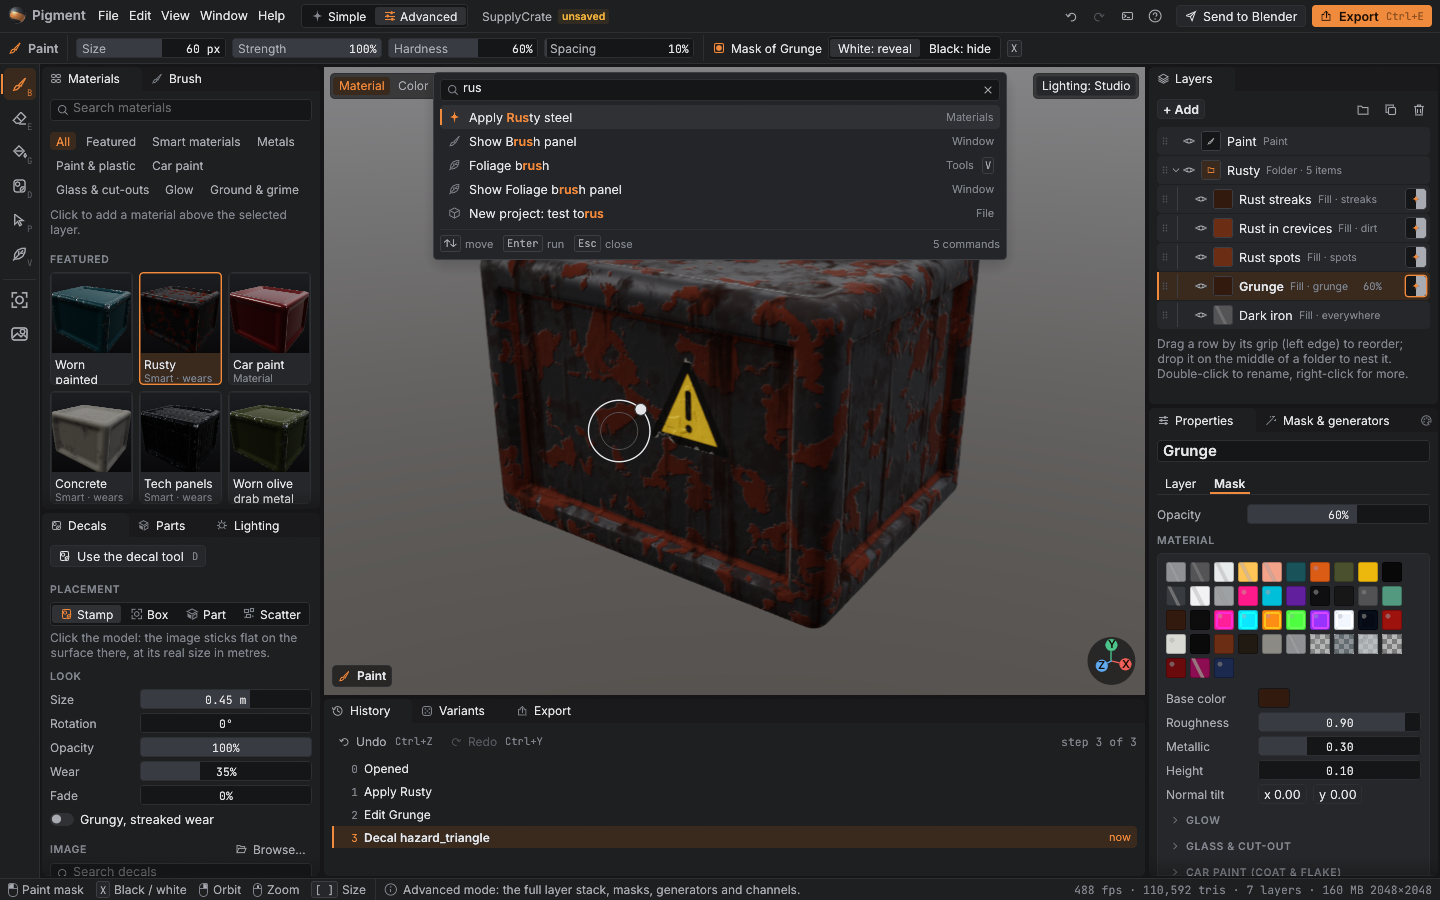
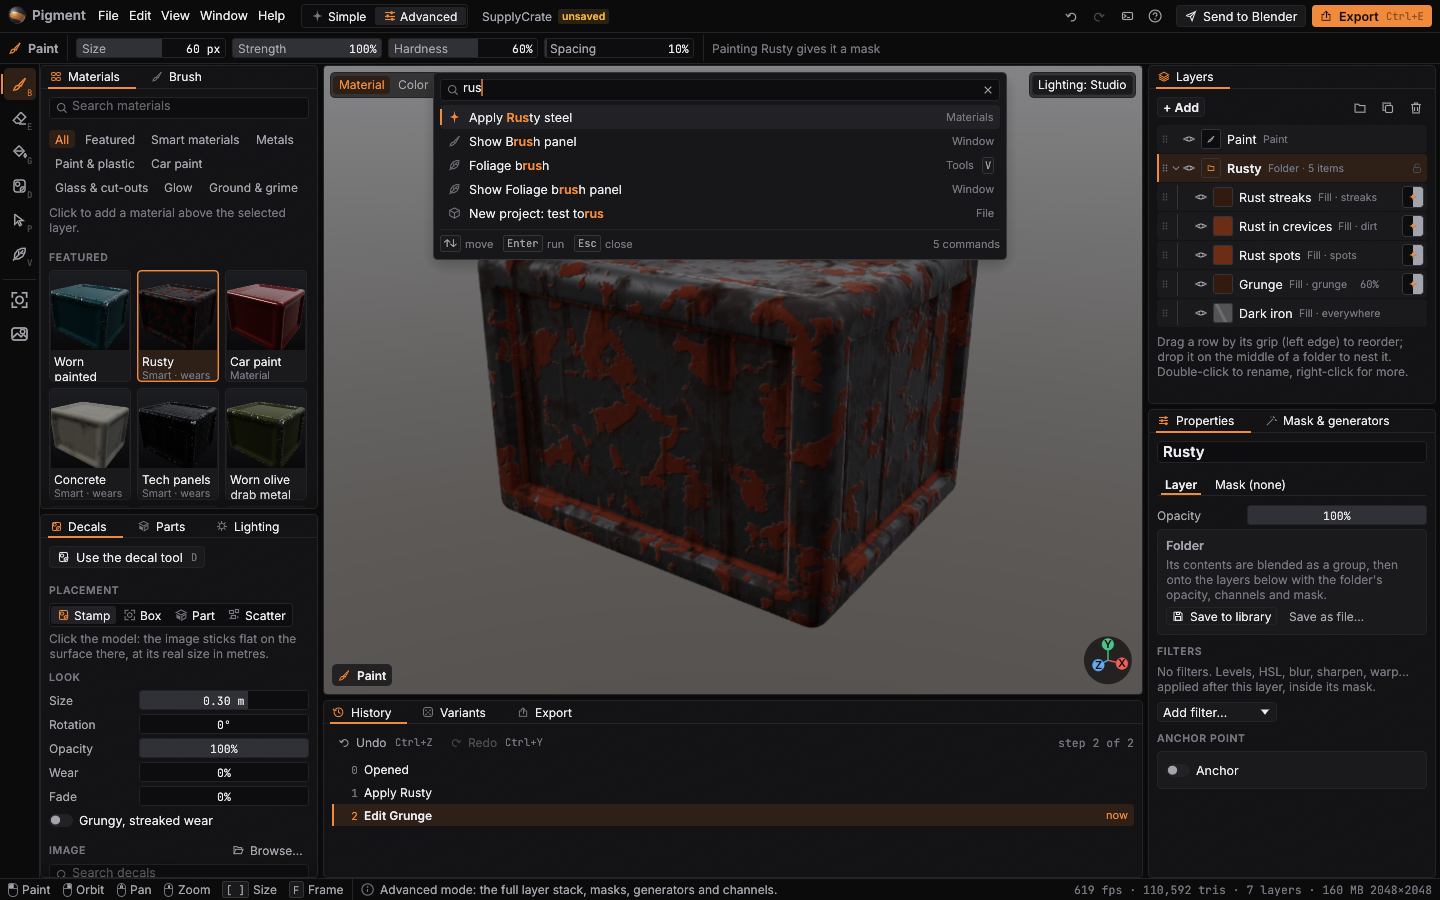
Overhaul UI
Panels are bordered cards on a near-black canvas with gutters between them, tabs marked by an underline, bars and tool rail on the canvas, the logo shown once (top bar), segmented controls stay on one row, and the Car sample gets its preview image.

diff --git a/crates/app/src/app/dock.rs b/crates/app/src/app/dock.rs
@@ -550,12 +550,16 @@ pub fn show(ui: &mut Ui, layout: &mut DockLayout, mut panel: impl FnMut(&mut Ui,
         let active = active.min(tabs.len() - 1);
         let only_viewport = tabs.len() == 1 && tabs[0] == PanelId::Viewport;
         let lrect = lrect.shrink(0.5);
-        let content = if only_viewport { lrect } else { Rect::from_min_max(pos2(lrect.left(), lrect.top() + m.tab_h), lrect.max) };
+        // every leaf is a card on the canvas: graphite fill, hairline edge
+        let t_active = tabs[active];
+        ui.painter().rect_filled(lrect, CornerRadius::same(radius::LG), if only_viewport || t_active == PanelId::Viewport { p.bg } else { p.surface });
+        let content = if only_viewport { lrect.shrink(1.0) } else { Rect::from_min_max(pos2(lrect.left() + 1.0, lrect.top() + m.tab_h), pos2(lrect.right() - 1.0, lrect.bottom() - 1.0)) };
         if !only_viewport {
-            // the tab strip sits on the darker background; the active tab joins the panel below
+            // the tab strip is part of the card: quiet labels, the active tab underlined in the accent
             let bar = Rect::from_min_max(lrect.min, pos2(lrect.right(), lrect.top() + m.tab_h));
-            ui.painter().rect_filled(bar, CornerRadius { nw: radius::LG, ne: radius::LG, sw: 0, se: 0 }, p.bg.lerp_to_gamma(p.surface, 0.45));
-            let mut x = bar.left();
+            ui.painter().rect_filled(bar, CornerRadius { nw: radius::LG, ne: radius::LG, sw: 0, se: 0 }, p.surface);
+            ui.painter().hline(bar.x_range(), bar.bottom() - 0.5, Stroke::new(1.0, p.border));
+            let mut x = bar.left() + space::XXS;
             let isz = icon::SM - 1.0;
             for (k, t) in tabs.iter().enumerate() {
                 let on = k == active;
@@ -568,11 +572,15 @@ pub fn show(ui: &mut Ui, layout: &mut DockLayout, mut panel: impl FnMut(&mut Ui,
                 let tr = Rect::from_min_size(pos2(x, bar.top()), vec2(w, m.tab_h));
                 let id = ui.scope_id().with(("dock tab", *t));
                 let r = ui.interact(tr, id, Sense::click_and_drag());
-                let bg = if on { p.surface } else if r.hovered() { p.surface_raised } else { egui::Color32::TRANSPARENT };
-                ui.painter().rect_filled(tr, CornerRadius { nw: radius::LG, ne: radius::LG, sw: 0, se: 0 }, bg);
+                if r.hovered() && !on {
+                    ui.painter().rect_filled(tr.shrink2(vec2(0.0, space::XXS)), CornerRadius::same(radius::MD), p.surface_raised);
+                }
+                if on {
+                    ui.painter().hline(tr.shrink2(vec2(space::SM, 0.0)).x_range(), tr.bottom() - 1.0, Stroke::new(2.0, p.accent));
+                }
                 let fg = if on { p.text } else if r.hovered() { p.text_secondary } else { p.text_muted };
                 let painter = ui.painter().with_clip_rect(tr);
-                t.icon().paint(&painter, Rect::from_min_size(pos2(tr.left() + space::MD, tr.center().y - isz / 2.0), vec2(isz, isz)), if on { p.text_secondary } else { fg });
+                t.icon().paint(&painter, Rect::from_min_size(pos2(tr.left() + space::MD, tr.center().y - isz / 2.0), vec2(isz, isz)), if on { p.accent } else { fg });
                 painter.galley(pos2(tr.left() + space::MD + isz + space::SM, tr.center().y - g.size().y / 2.0), g, fg);
                 if t.closable() && r.hovered() {
                     let cr = Rect::from_center_size(pos2(tr.right() - space::SM - isz / 2.0 + 2.0, tr.center().y), vec2(isz - 3.0, isz - 3.0));
@@ -610,8 +618,7 @@ pub fn show(ui: &mut Ui, layout: &mut DockLayout, mut panel: impl FnMut(&mut Ui,
                 x += w + 1.0;
             }
         }
-        let t = tabs[active];
-        ui.painter().rect_filled(content, CornerRadius { nw: 0, ne: 0, sw: radius::LG, se: radius::LG }, if t == PanelId::Viewport { p.bg } else { p.surface });
+        let t = t_active;
         let mut child = ui.new_child(egui::UiBuilder::new().max_rect(content).id_salt(("dock panel", t)).layout(egui::Layout::top_down(egui::Align::Min)));
         child.set_clip_rect(content.intersect(ui.clip_rect()));
         if t == PanelId::Viewport {
@@ -625,6 +632,7 @@ pub fn show(ui: &mut Ui, layout: &mut DockLayout, mut panel: impl FnMut(&mut Ui,
             });
         }
         out.rects.push((t, content));
+        ui.painter().rect_stroke(lrect, CornerRadius::same(radius::LG), Stroke::new(1.0, p.border), StrokeKind::Inside);
 
         // drop target highlight
         if let (Some(d), Some(pos)) = (dragging, pointer) {

diff --git a/crates/app/src/app/design/mod.rs b/crates/app/src/app/design/mod.rs
@@ -74,34 +74,36 @@ const fn rgb(r: u8, g: u8, b: u8) -> Color32 {
 }
 
 impl Palette {
+    /// Carbon: graphite panels floating on a near-black canvas, separated by
+    /// hairlines and gutters rather than by fill steps.
     pub const DARK: Palette = Palette {
-        bg: rgb(22, 22, 24),
-        surface: rgb(30, 31, 33),
-        surface_raised: rgb(38, 39, 42),
-        surface_hover: rgb(48, 49, 53),
-        well: rgb(21, 22, 24),
-        field_fill: rgb(56, 59, 66),
-        overlay: rgb(36, 37, 40),
-        glass: Color32::from_rgba_premultiplied(16, 16, 18, 214),
-        border: rgb(46, 47, 50),
-        border_strong: rgb(60, 62, 67),
-        text: rgb(228, 229, 232),
-        text_secondary: rgb(168, 171, 177),
-        text_muted: rgb(128, 132, 140),
-        text_disabled: rgb(84, 87, 93),
+        bg: rgb(11, 11, 12),
+        surface: rgb(19, 19, 21),
+        surface_raised: rgb(26, 26, 29),
+        surface_hover: rgb(34, 34, 38),
+        well: rgb(13, 13, 15),
+        field_fill: rgb(48, 49, 54),
+        overlay: rgb(23, 23, 26),
+        glass: Color32::from_rgba_premultiplied(10, 10, 11, 220),
+        border: rgb(36, 36, 40),
+        border_strong: rgb(52, 52, 58),
+        text: rgb(236, 236, 239),
+        text_secondary: rgb(164, 164, 172),
+        text_muted: rgb(118, 118, 128),
+        text_disabled: rgb(76, 76, 84),
         accent: rgb(240, 138, 60),
         accent_hover: rgb(255, 160, 88),
         accent_pressed: rgb(214, 116, 42),
-        accent_subtle: rgb(58, 42, 30),
+        accent_subtle: rgb(46, 32, 22),
         on_accent: rgb(26, 16, 6),
         success: rgb(76, 195, 138),
         warn: rgb(242, 179, 61),
         danger: rgb(240, 96, 90),
         info: rgb(96, 170, 240),
         focus: rgb(125, 183, 255),
-        selection: rgb(84, 58, 36),
-        scrim: Color32::from_rgba_premultiplied(0, 0, 0, 140),
-        shadow: Color32::from_rgba_premultiplied(0, 0, 0, 90),
+        selection: rgb(78, 52, 32),
+        scrim: Color32::from_rgba_premultiplied(0, 0, 0, 160),
+        shadow: Color32::from_rgba_premultiplied(0, 0, 0, 110),
     };
 
     pub const LIGHT: Palette = Palette {
@@ -209,7 +211,8 @@ pub mod size {
     pub const TILE: f32 = 80.0;
     pub const TAB_H: f32 = 24.0;
     pub const STATUS_H: f32 = 22.0;
-    pub const SPLITTER: f32 = 3.0;
+    /// Gutter between docked panels (the canvas shows through).
+    pub const SPLITTER: f32 = 4.0;
     pub const SLIDER_W: f32 = 120.0;
     /// Label column of property rows.
     pub const LABEL_W: f32 = 84.0;
@@ -450,12 +453,12 @@ pub fn panel_frame(p: &Palette) -> egui::Frame {
 
 /// The top bar and the status bar: flat surface, tight padding.
 pub fn bar_frame(p: &Palette) -> egui::Frame {
-    egui::Frame::new().fill(p.surface).inner_margin(Margin::symmetric(space::MD as i8, space::XS as i8)).stroke(Stroke::new(1.0, p.border))
+    egui::Frame::new().fill(p.bg).inner_margin(Margin::symmetric(space::MD as i8, space::XS as i8)).stroke(Stroke::new(1.0, p.border))
 }
 
 /// The tool options bar under the top bar.
 pub fn toolbar_frame(p: &Palette) -> egui::Frame {
-    egui::Frame::new().fill(p.surface).inner_margin(Margin::symmetric(space::MD as i8, space::XXS as i8))
+    egui::Frame::new().fill(p.bg).inner_margin(Margin::symmetric(space::MD as i8, space::XXS as i8))
 }
 
 /// Untinted image drawing (not a colour role).

diff --git a/crates/app/src/app/design/components.rs b/crates/app/src/app/design/components.rs
@@ -624,17 +624,33 @@ pub fn segmented<T: PartialEq + Copy>(ui: &mut Ui, value: &mut T, options: &[(T,
     let frame = egui::Frame::new().fill(p.well).corner_radius(cr(radius::MD)).inner_margin(egui::Margin::same(1)).stroke(Stroke::new(1.0, p.border));
     frame.show(ui, |ui| {
         ui.spacing_mut().item_spacing = vec2(1.0, 1.0);
+        // stay on one row when it can: tighten the padding, then drop the icons, before wrapping
+        let avail = ui.available_width() - 2.0;
+        let text_w: Vec<f32> = options.iter().map(|(_, _, l)| ui.painter().layout_no_wrap(l.to_string(), fonts::regular(font::SMALL), p.text).size().x).collect();
+        let total = |pad: f32, icons: bool| -> f32 {
+            options.iter().zip(&text_w).map(|((_, ic, l), tw)| if l.is_empty() { m.control_h_sm + space::XS } else { tw + pad * 2.0 + if icons { ic.map_or(0.0, |_| icon::SM + space::XS) } else { 0.0 } } + 1.0).sum()
+        };
+        let (pad, icons) = if total(space::MD, true) <= avail {
+            (space::MD, true)
+        } else if total(space::SM, true) <= avail {
+            (space::SM, true)
+        } else if total(space::XS, true) <= avail {
+            (space::XS, true)
+        } else {
+            (space::SM, false)
+        };
         ui.horizontal_wrapped(|ui| {
             for (v, ic, label) in options {
+                let ic = if icons || label.is_empty() { *ic } else { None };
                 let on = *value == *v;
                 let g = ui.painter().layout_no_wrap(label.to_string(), fonts::regular(font::SMALL), p.text);
-                let w = g.size().x + space::MD * 2.0 + ic.map_or(0.0, |_| icon::SM + space::XS);
+                let w = g.size().x + pad * 2.0 + ic.map_or(0.0, |_| icon::SM + space::XS);
                 let w = if label.is_empty() { m.control_h_sm + space::XS } else { w };
                 let (rect, resp) = ui.allocate_exact_size(vec2(w, m.control_h_sm), Sense::click());
                 let bg = if on { p.surface_hover } else if resp.hovered() { p.surface_raised } else { Color32::TRANSPARENT };
                 ui.painter().rect_filled(rect, cr(radius::SM), bg);
                 let fg = if on { p.text } else if resp.hovered() { p.text_secondary } else { p.text_muted };
-                let mut x = rect.center().x - (w - space::MD * 2.0) / 2.0;
+                let mut x = rect.center().x - (w - pad * 2.0) / 2.0;
                 if label.is_empty() {
                     x = rect.center().x - icon::SM / 2.0;
                 }

diff --git a/crates/app/src/app/ui.rs b/crates/app/src/app/ui.rs
@@ -207,8 +207,8 @@ impl eframe::App for PigmentApp {
         } else {
             egui::Panel::top("tool options").frame(ds::toolbar_frame(&p)).show(ui, |ui| self.tool_options(ui, &rs));
             let rail = if m.tool_labels { (m.tool + space::LG * 2.0, space::SM) } else { (m.tool + space::MD, space::XS) };
-            egui::Panel::left("tool rail").exact_size(rail.0).resizable(false).frame(egui::Frame::new().fill(p.surface).inner_margin(egui::Margin::same(rail.1 as i8))).show(ui, |ui| self.tool_rail(ui));
-            egui::CentralPanel::default().frame(egui::Frame::new().fill(p.bg).inner_margin(egui::Margin::same(space::XXS as i8))).show(ui, |ui| {
+            egui::Panel::left("tool rail").exact_size(rail.0).resizable(false).frame(egui::Frame::new().fill(p.bg).inner_margin(egui::Margin::same(rail.1 as i8))).show(ui, |ui| self.tool_rail(ui));
+            egui::CentralPanel::default().frame(egui::Frame::new().fill(p.bg).inner_margin(egui::Margin { left: 0, right: space::XS as i8, top: 0, bottom: 0 })).show(ui, |ui| {
                 let mut layout = std::mem::take(self.ui.prefs.layout_mut());
                 let before = layout.clone();
                 let mut panels = self.ui.panels.take().unwrap_or_default();

diff --git a/crates/app/src/app/welcome.rs b/crates/app/src/app/welcome.rs
@@ -121,13 +121,9 @@ impl PigmentApp {
         ui.scope_builder(egui::UiBuilder::new().max_rect(rect), |ui| {
             egui::ScrollArea::vertical().show(ui, |ui| {
                 ui.add_space(space::XXL);
-                ui.horizontal(|ui| {
-                    ds::logo(ui, icon::XL);
-                    ui.vertical(|ui| {
-                        ui.label(ds::strong("Paint your 3D models", font::DISPLAY));
-                        ui.label(ds::text("Pick a model, pick a material, export. Edge wear and dirt appear where they belong.", font::TITLE).color(p.text_secondary));
-                    });
-                });
+                // the mark lives in the top bar only; the welcome screen leads with words
+                ui.label(ds::strong("Paint your 3D models", font::DISPLAY));
+                ui.label(ds::text("Pick a model, pick a material, export. Edge wear and dirt appear where they belong.", font::TITLE).color(p.text_secondary));
                 ui.add_space(space::XXL);
                 if let Some((_, name)) = self.recovery() {
                     ds::card(ui, |ui| {

diff --git a/docs/design/DESIGN_SYSTEM.md b/docs/design/DESIGN_SYSTEM.md
@@ -42,24 +42,32 @@ See it live: `pigment --design-gallery`. Every screen offscreen:
    commands persist in `prefs.json`. Bakes, exports and autosaves run without freezing
    the window and report through toasts (hover a toast to keep it).
 
+## Layout: cards on a carbon canvas
+
+The window is a near-black canvas (`bg`). The top bar, tool options bar, tool rail and status bar sit
+directly on it. Every docked panel is a graphite card (`surface`) with a 1 px `border` hairline and
+`radius::LG` corners, separated from its neighbours by a 4 px gutter (`size::SPLITTER`) that doubles as
+the resize handle. A card's tab strip belongs to the card: quiet labels, the active tab marked by a
+2 px accent underline and an accent icon. The logo appears once, in the top bar.
+
 ## Tokens
 
 ### Colour roles (`design::Palette`)
 
 | Role | Dark | Light | Use |
 |---|---|---|---|
-| `bg` | #161618 | #D6D8DC | behind everything, viewport surround, tab strips |
-| `surface` | #1E1F21 | #ECEDF0 | panels, bars, the active tab |
-| `surface_raised` | #26272A | #F7F8FA | rows, cards, hovered tabs |
-| `surface_hover` | #303135 | #E0E2E6 | hovered rows and buttons |
-| `well` | #151618 | #FAFAFB | text fields, drag fields, tracks |
+| `bg` | #0B0B0C | #D6D8DC | behind everything, viewport surround, tab strips |
+| `surface` | #131315 | #ECEDF0 | panels, bars, the active tab |
+| `surface_raised` | #1A1A1D | #F7F8FA | rows, cards, hovered tabs |
+| `surface_hover` | #222226 | #E0E2E6 | hovered rows and buttons |
+| `well` | #0D0D0F | #FAFAFB | text fields, drag fields, tracks |
 | `field_fill` | #383B42 | #CCD2DC | the value part of a drag field (neutral, never the accent) |
-| `overlay` | #242528 | #FAFAFB | menus, toasts, dialogs, palette |
+| `overlay` | #17171A | #FAFAFB | menus, toasts, dialogs, palette |
 | `glass` | near-black 84% | white 84% | viewport HUD chips |
-| `border` / `border_strong` | #2E2F32 / #3C3E43 | #D0D3D8 / #B0B5BD | hairlines / hover and emphasis |
-| `text` | #E4E5E8 | #16181C | primary text (>= 7:1 on every surface) |
-| `text_secondary` | #A8ABB1 | #3E434B | labels (>= 4.5:1) |
-| `text_muted` | #80848C | #606771 | hints, captions (>= 3:1) |
+| `border` / `border_strong` | #242428 / #34343A | #D0D3D8 / #B0B5BD | hairlines / hover and emphasis |
+| `text` | #ECECEF | #16181C | primary text (>= 7:1 on every surface) |
+| `text_secondary` | #A4A4AC | #3E434B | labels (>= 4.5:1) |
+| `text_muted` | #767680 | #606771 | hints, captions (>= 3:1) |
 | `text_disabled` | #54575D | #A0A6AF | disabled |
 | `accent` / `hover` / `pressed` | #F08A3C / #FFA058 / #D6742A | #D26216 / #E67222 / #B85410 | selection, active tool, the primary action |
 | `accent_subtle` | #3A2A1E | #FAE0CA | selected rows and tools |
